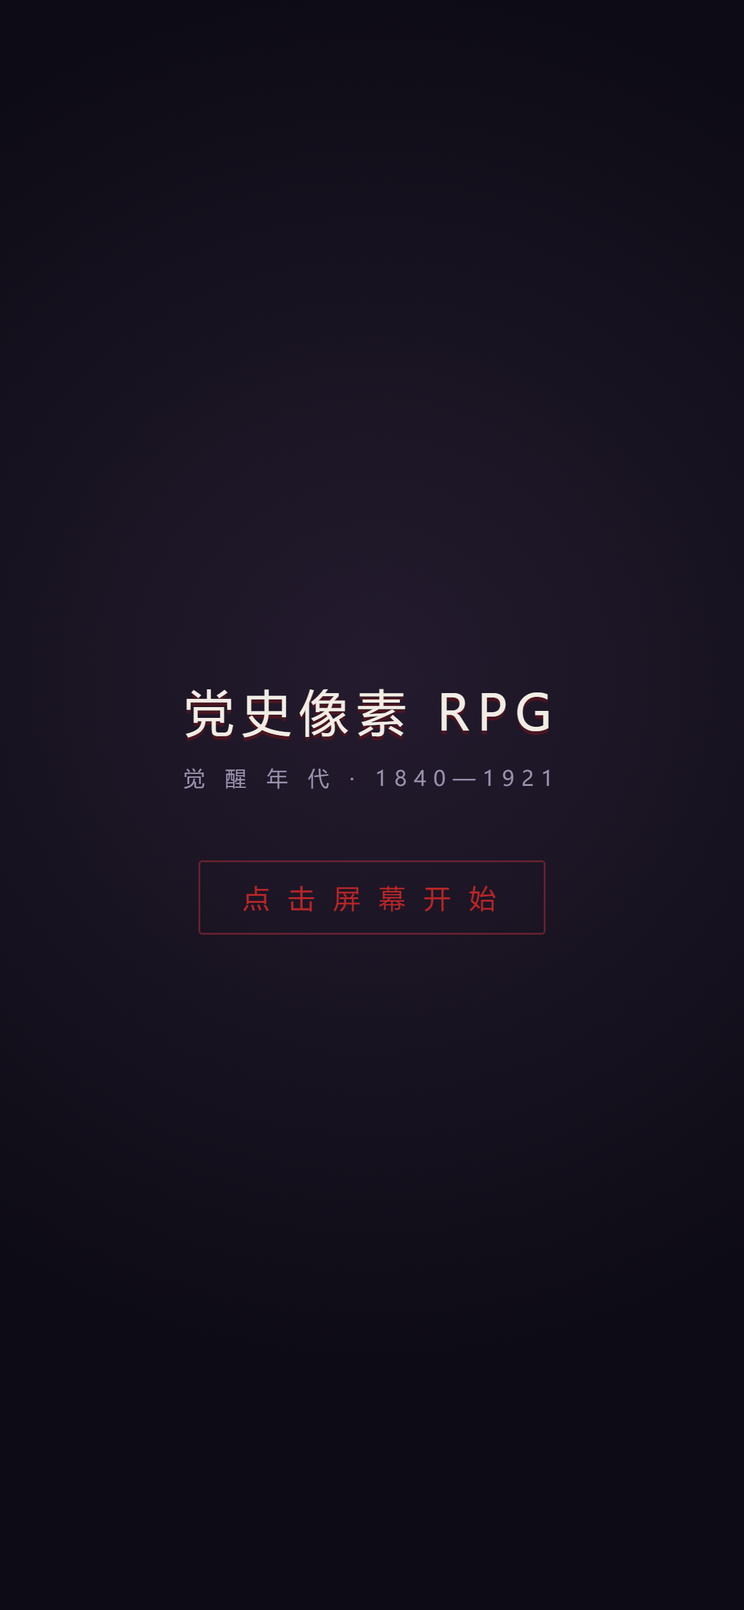
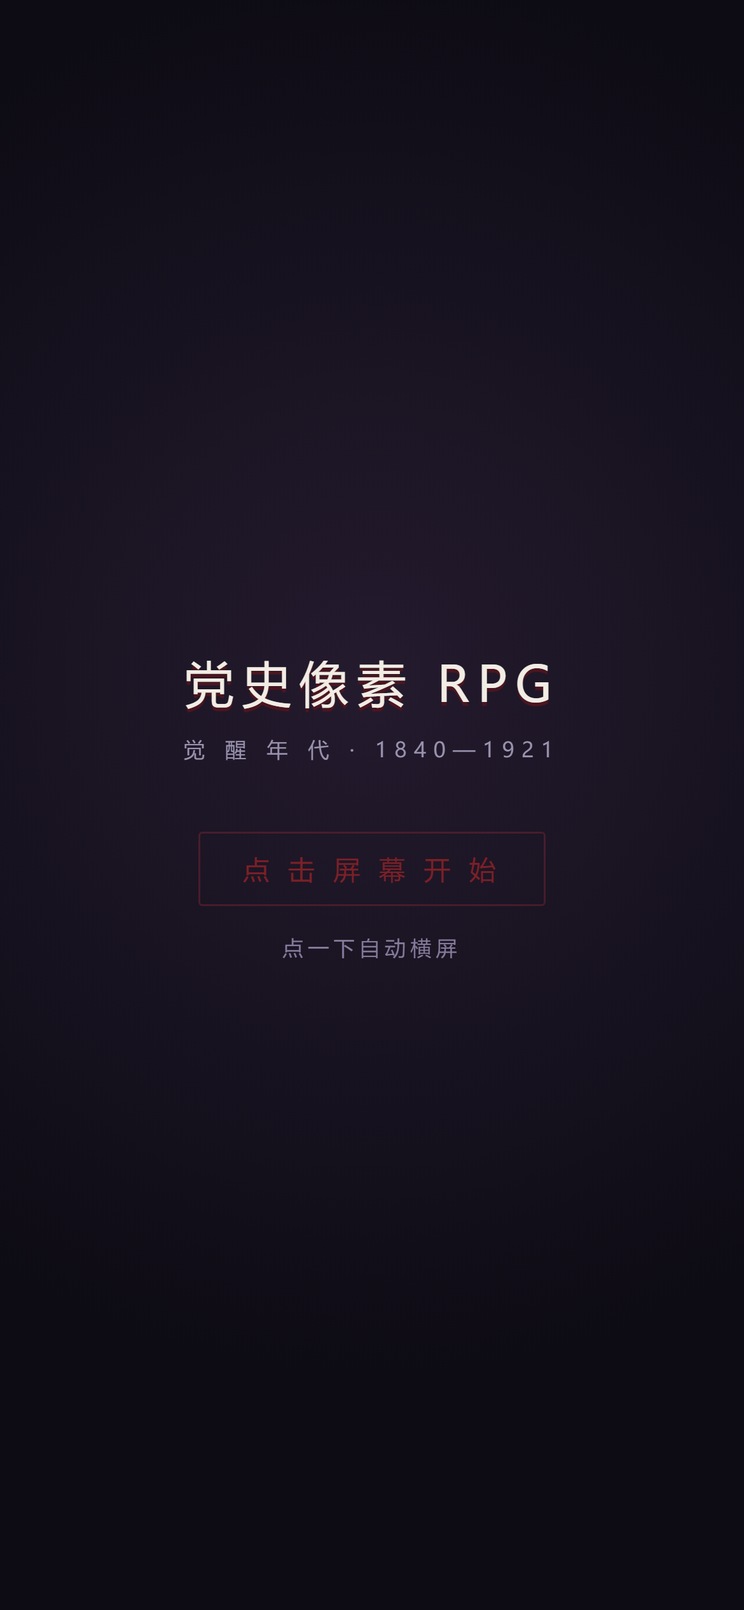
横屏：点一下就横 + 游戏内「横屏」按钮
点「点击开始」这一下就是手势：onTap 里同步置 wantLandscape=true 并立刻 reflow，
不再等异步的全屏/锁屏回调（原来点完会先看到几帧正立的画面再突然翻过去）。
锁得上交给系统转，锁不上走 CSS 旋转兜底；真横过来后自动撤掉 CSS 旋转回到原生渲染，
转屏过渡期先保持旋转，避免画面转一半又弹回来。

新增 #rotate-btn：竖屏时浮在右上角，点一下再强制横一次。这一下是新手势，
所以能把 requestFullscreen 和 screen.orientation.lock('landscape') 重新申请一遍
（纯 CSS 旋转不需要手势，但锁屏需要；锁屏转出的原生横屏更清晰、无触点偏差）。
已转过时文案变「横屏（已横屏）」；?norot=1 模式不显示按钮。

坑（已写进 src/README.md）：html.rot 下不能用 getBoundingClientRect 推像素——
CSS 变换只在绘制阶段生效，矩形返回的仍是未变换的布局盒子，按钮会飞到屏幕外。
改为套一个与 #game-root 同尺寸同变换的盒子、按钮用 right/top 贴角；
判位置在合成屏幕上看 elementFromPoint 命中 rb-txt。

顺带修 gate-portrait.mjs 的时序：原来 gate 一出现就点，那时主模块还没接管，
那一下只置 __tapGatePending（引导层自己的先手逻辑），点了也不进游戏。现在先等 __dshGate。

验证：tsc=0；vitest 13 文件 / 239 测试全过（含 docs.test.ts）；
gate-portrait 三模式 auto / norot=1 / rot=1 均 ok=true；mobile-probe rotated=true、
afterButtonTap.scenes=["Hub"]、errors=[]；cdp-e2e finalErrors=[]；截图逐张看过。

diff --git a/game/src/systems/OrientationGate.ts b/game/src/systems/OrientationGate.ts
@@ -1,16 +1,16 @@
 /**
- * 「点击开始」入口 —— 复刻老掌机/老手游的进游戏手势，同时用它触发自动横屏。
+ * 「点击开始」入口 —— 复刻老掌机/老手游的进游戏手势，同时用它触发横屏。
  *
  * 为什么必须在点击里做：全屏与屏幕方向锁都要求用户手势，页面加载时自动调用一律被拒。
  *
- * 流程：点击 → 尽量全屏 → 尽量 lock('landscape') → 等一小会儿 → 若仍是竖屏，
- * 就改用 CSS 旋转容器兜底（iOS Safari 完全没有方向锁，只能这样），
+ * 流程：点一下屏幕 → 立刻要求横屏（wantLandscape）→ 尽量全屏 → 尽量 lock('landscape')
+ * → 若仍是竖屏，就改用 CSS 旋转容器兜底（iOS Safari 完全没有方向锁，只能这样），
  * 并把 Phaser 的触点换算改成旋转后的版本，否则点哪都偏 90°。
  */
 
 import Phaser from 'phaser';
 import { VIEW_H, VIEW_W } from '../core/constants';
-import { isPortrait, planOrientation, toGameSpace, unrotateToLocal } from '../core/orientation';
+import { isPortrait, toGameSpace, unrotateToLocal } from '../core/orientation';
 
 export interface GateState {
   tapped: boolean;
@@ -18,6 +18,8 @@ export interface GateState {
   locked: boolean;
   /** 是否正在用 CSS 旋转兜底 */
   rotated: boolean;
+  /** 是否还想让画面横着（点开始前竖屏就点一下，点了就要；真横过来或自检不过才放掉） */
+  wantLandscape: boolean;
   /** 调试/端到端用：把屏幕坐标换算成游戏内坐标（旋转兜底时才有意义） */
   map?: (cx: number, cy: number) => { x: number; y: number };
   /** 地址参数快照（E2E 要按模式分支，不能在脚本里猜） */
@@ -183,14 +185,15 @@ function centerCanvas(game: Phaser.Game): void {
 
 export function installStartGate(game: Phaser.Game): GateState {
   const params = new URLSearchParams(window.location.search);
-  // rot 模式三态：默认 auto = 点开始就自动横屏。
-  //   auto  —— 地址里两个参数都没写（线上部署就是这个状态）：先试全屏 + lock('landscape')，
-  //            锁不上就**自动用 CSS 把画面转 90° 铺满屏幕**——用户不用自己横手机；
-  //            一旦触点换算自检对不上，退回提示模式（宁可不转，也不能留一个点不动的画面）。
-  //   force —— `?rot=1`：强制走旋转兜底（调试旧的坐标反算链路）。
-  //   hint  —— `?norot=1`：永不自动转，竖屏只弹「请把手机横过来」。
-  // 之前默认是 hint（用户 2026-10-30 否掉了自动转屏）；本轮用户要求「游戏要能横屏」，
-  // 默认改回 auto：锁得上交给系统转，锁不上（iOS Safari / 微信内核）由 CSS 转过来。
+  // 横屏行为：**点一下屏幕就横**。
+  //   点「点击开始」之前：竖屏不转，引导层正立着，只写一句「点一下自动横屏」。
+  //   点下去之后（onTap，同步、不等异步）：wantLandscape = true，
+  //     真横屏 → 什么都不做；
+  //     锁得动 → 全屏 + lock('landscape')，交给系统转（transition 期间照旧保持 CSS 旋转，
+  //               避免「转了一半又被撤掉」的抖动，等视口真的横向了再放掉，见 reflow）；
+  //     锁不动（iOS Safari / 微信内核）或锁完还是竖的 → CSS 把容器转 90° 铺满。
+  //   用户把手机横过来 / 自检不过 → wantLandscape = false，画面回到原生横屏。
+  // 开关：`?rot=1` 强制 CSS 旋转（调试旧链路）；`?norot=1` 完全不转，只弹「请把手机横过来」。
   const rotMode: 'auto' | 'force' | 'hint' =
     params.get('rot') === '1' ? 'force' : params.get('norot') === '1' ? 'hint' : 'auto';
   // 自检只许做一次：兜底被关掉之后画布恢复普通布局，再拿它跑一次几何检查必然误判。
@@ -200,12 +203,13 @@ export function installStartGate(game: Phaser.Game): GateState {
     fullscreen: false,
     locked: false,
     rotated: false,
+    wantLandscape: false,
     url: { rot: params.get('rot') === '1', hint: params.get('norot') === '1' },
   };
   /** auto 模式下锁屏失败后是否允许 CSS 兜底；自检不过就永久关掉 */
   let rotationBlocked = rotMode === 'hint';
 
-  /** gate 还盖在屏幕上：此时旋转只会把「点击开始」拧起来，等点完再转 */
+  /** gate 还盖在屏幕上：点之前不转，引导层要保持正立 */
   const gateCovering = (): boolean => {
     const g = document.getElementById('tap-gate');
     return !!g && !g.classList.contains('hidden');
@@ -218,6 +222,16 @@ export function installStartGate(game: Phaser.Game): GateState {
     hint.classList.toggle('show', isPortrait(viewport()) && !state.rotated);
   };
 
+  /** 游戏内「横屏」小按钮：竖屏可见，点一下再强制横一次（旋转被撤销后的补救入口） */
+  const updateRotateButton = (): void => {
+    const btn = document.getElementById('rotate-btn');
+    if (!btn) return;
+    // 真横屏没必要显示；hint 模式也不显示（那种模式用户自己横过来）
+    const show = rotMode !== 'hint' && isPortrait(viewport());
+    btn.classList.toggle('show', show);
+    btn.classList.toggle('on', state.rotated);
+  };
+
   /** 触点换算自检：画布外接矩形的中心必须映回 (240,135)。对不上就说明几何与假设不符。 */
   const mappingSane = (): boolean => {
     const map = state.map;
@@ -227,23 +241,22 @@ export function installStartGate(game: Phaser.Game): GateState {
     return Math.abs(c.x - VIEW_W / 2) < 14 && Math.abs(c.y - VIEW_H / 2) < 14;
   };
 
+  /**
+   * 重新算一遍横屏策略。三句话：
+   *   1. 点之前不转（引导层要正立），点过之后（wantLandscape）才该横；
+   *   2. 已经横了（视口本身是横的，或系统锁屏把视口转过来了）就放掉 CSS 旋转——原生横屏最省事；
+   *   3. 还竖着就转：锁不上屏的直接 CSS 转，锁得上的先等系统转，但**先转着别撤**，
+   *      否则锁屏过渡的那几十毫秒里会看到画面转一半又弹回来。
+   * 唯一让步是触点自检不过（rotationBlocked）：宁可退回「请横屏」提示，也不能留一个转了却点不动的画面。
+   */
   const reflow = (): void => {
-    // force 模式下无视自检结果；auto 模式下 rotationBlocked 只可能由自检置真。
-    // gate 还盖着屏幕时不转：旋转兜底是给「进游戏之后」用的，点开始之前先把
-    // 「点击开始」拧起来反而怪（旧行为是加载即旋转，探针就是这么抓到 rotClass=true）。
-    // 但一旦用户点过（state.tapped），就不再撤销旋转——锁屏成功、系统把视口转成
-    // 横屏的那几十毫秒里，resize 会读到瞬时竖屏几何，撤销再恢复会让画面抖一下。
-    // 例外：自检不过（rotationBlocked）时必须撤销——留一个「转了但点不动」的画面，
-    // 比退回提示模式更糟（宁可不转，也不能骗人以为能玩）。
-    let canRotate = rotMode === 'force' || state.tapped || !gateCovering();
-    if (rotationBlocked && state.rotated) canRotate = true;
-    const plan =
-      rotMode === 'force'
-        ? 'rotate'
-        : rotationBlocked || !canRotate
-          ? 'landscape'
-          : planOrientation(viewport(), state.locked);
-    const rotated = plan === 'rotate';
+    const vp = viewport();
+    const portrait = isPortrait(vp);
+    if (rotMode === 'auto' && state.wantLandscape && !portrait) state.wantLandscape = false;
+
+    const canRotate = rotMode === 'force' || ((state.tapped || !gateCovering()) && !rotationBlocked);
+    const rotated = canRotate && (rotMode === 'force' || (state.wantLandscape && portrait));
+
     if (rotated && !state.rotated) sanityChecked = false; // 重新转起来 = 几何变了，允许再自检一次
     state.rotated = rotated;
     applyRotatedLayout(rotated);
@@ -258,6 +271,7 @@ export function installStartGate(game: Phaser.Game): GateState {
       );
     };
     updateHint();
+    updateRotateButton();
     // 容器尺寸变了要让 Phaser 重新量一次父容器；旋转时还要自己居中（Phaser 的量法在旋转下会算反）
     window.setTimeout(() => {
       game.scale.refresh();
@@ -275,6 +289,7 @@ export function installStartGate(game: Phaser.Game): GateState {
           sanityChecked = true;
           if (!mappingSane()) {
             rotationBlocked = true;
+            state.wantLandscape = false;
             reflow();
           }
         }
@@ -302,7 +317,8 @@ export function installStartGate(game: Phaser.Game): GateState {
       } catch {
         state.locked = false;
       }
-      // 锁屏成功后系统要几十到几百毫秒才把视口转过来
+      // 锁屏成功后系统要几十到几百毫秒才把视口转过来。这段时间里 CSS 旋转照旧保持着
+      // （reflow 会在视口真的变横时自己撤掉），所以这里只等一下，不主动撤销任何东西。
       await new Promise((r) => window.setTimeout(r, state.locked ? 500 : 0));
     }
     reflow();
@@ -312,16 +328,39 @@ export function installStartGate(game: Phaser.Game): GateState {
   const onTap = (): void => {
     if (state.tapped) return;
     state.tapped = true;
+    // 「点一下屏幕就横」：这一下点下去就立刻要求横屏，并把旋转同步做完——
+    // begin() 里的全屏/锁屏是异步的，等它回来才转的话，竖屏下会先看到几帧正立的画面再突然翻过去。
+    state.wantLandscape = true;
     (window as unknown as { __tapGatePending?: boolean }).__tapGatePending = false;
     gate?.classList.add('hidden');
     document.documentElement.classList.add('started');
-    // 引导层一消失就该决定要不要旋转画面（begin() 里的全屏/锁屏是异步的，
-    // 等它回来才转的话，竖屏下会先看到几帧歪着的画面）
     reflow();
     // 只把 opacity 置 0 的话，某些内置浏览器仍会把点击吃掉；到时彻底移出层叠树
     window.setTimeout(() => {
       if (gate) gate.style.display = 'none';
     }, 340);
+    void begin();
+  };
+
+  /**
+   * 游戏内「横屏」按钮：再强制横一次。
+   * 场景是旋转被撤掉了（自检不过 / 用户中途横竖切换过 / 系统把锁屏放掉了）却还想横着玩：
+   * 这一下是新手势，所以能把全屏和方向锁**重新申请一遍**（这是关键——纯 CSS 旋转不需要手势，
+   * 但锁屏需要，而锁屏转出来的原生横屏比 CSS 转更清晰、也没有触点偏差的风险）。
+   */
+  const onRotateButton = (): void => {
+    if (rotMode === 'hint') return;
+    // 先把旋转同步打开：即使下面的全屏/锁屏全被拒（iOS Safari 支持 requestFullscreen 的
+    // 只有 video，screen.orientation 根本没有 lock），CSS 兜底也立刻把画面转过来。
+    state.wantLandscape = true;
+    if (!state.tapped) {
+      // 已经进游戏但 gate 还在（比如用户直接点了水面）：当成已开始，免得旋转又被 gate 挡回去
+      state.tapped = true;
+      gate?.classList.add('hidden');
+      document.documentElement.classList.add('started');
+    }
+    reflow();
+    // 手势还在：再有本事就把系统锁定也拿回来（成功时视口会自己转，reflow 随后撤掉 CSS 旋转）
     void begin();
   };
 
@@ -344,6 +383,19 @@ export function installStartGate(game: Phaser.Game): GateState {
   } else {
     // 没有 gate 元素（理论上不会）就当已点击，至少保证方向逻辑生效
     onTap();
+  }
+
+  // 游戏内「横屏」按钮：同样三种事件都挂（它不出现在 gate 里，要一直可用，所以不加 once）
+  const rotateBtn = document.getElementById('rotate-btn');
+  if (rotateBtn) {
+    rotateBtn.addEventListener('pointerdown', (e) => {
+      e.preventDefault();
+      onRotateButton();
+    });
+    rotateBtn.addEventListener('click', (e) => {
+      e.preventDefault();
+      onRotateButton();
+    });
   }
 
   window.addEventListener('resize', reflow);

diff --git a/game/index.html b/game/index.html
@@ -134,6 +134,20 @@
         border-radius: 2px;
         animation: pulse 1.6s ease-in-out infinite;
       }
+      /* 「点一下自动横屏」：只在竖屏出现（横屏本来就横，写了反而多余）。
+         竖屏时这段话在 gate 正下方，正立着读——点下去画面才转。 */
+      #tap-gate .tg-tip {
+        display: none;
+        margin-top: 4px;
+        font-size: 11px;
+        letter-spacing: 0.22em;
+        color: #857c9c;
+      }
+      @media (orientation: portrait) {
+        #tap-gate .tg-tip {
+          display: block;
+        }
+      }
       @keyframes pulse {
         0%,
         100% {
@@ -159,6 +173,95 @@
       }
       html.rot #rotate-hint {
         display: none;
+      }
+      /* 游戏内「横屏」按钮：竖屏时浮在右上角，点一下再强制横一次。
+         旋转生效时它跟着容器一起转——所以必须放在 #game-root 外面（见 body 里的位置），
+         否则竖屏下会被转到屏幕外或被 CSS 变换反着放。 */
+      #rotate-btn {
+        position: fixed;
+        right: 10px;
+        top: 10px;
+        z-index: 250;
+        display: none;
+        align-items: center;
+        gap: 6px;
+        padding: 8px 12px;
+        font-size: 12px;
+        letter-spacing: 0.12em;
+        color: var(--paper);
+        background: rgba(26, 20, 36, 0.86);
+        border: 1px solid #6b2330;
+        border-radius: 3px;
+        cursor: pointer;
+        -webkit-tap-highlight-color: transparent;
+      }
+      #rotate-btn.show {
+        display: inline-flex;
+      }
+      #rotate-btn:active {
+        background: #6b2330;
+      }
+      #rotate-btn .rb-icon {
+        font-size: 14px;
+        line-height: 1;
+        color: var(--red);
+      }
+      /* 已经转过就把「点我」的语气收一收，避免玩家以为没生效 */
+      #rotate-btn.on .rb-txt::after {
+        content: '（已横屏）';
+        color: #857c9c;
+        letter-spacing: 0;
+        font-size: 10px;
+      }
+      /* 旋转兜底生效时整个屏幕在用户眼里是横的，按钮必须跟着“转到那个坐标系里”，
+         否则它停在竖屏角度、玩家看着是躺着的。
+
+         做法：给按钮套一个与 #game-root 完全相同的盒子（宽=100vh、高=100vw，再转 90°），
+         按钮盒子用 absolute 贴在**这个盒子的右上角**（right/top）——
+         旋转把「容器右上角」映射成屏幕左上角，正好是用户眼里的“竖屏时的右上角”。
+         注意不能用 getBoundingClientRect 推坐标：CSS 变换只在绘制阶段生效，
+         它返回的仍是未变换的布局盒子（踩过一次）。 */
+      html.rot #rotate-btn {
+        position: fixed;
+        left: 0;
+        top: 0;
+        right: auto;
+        width: 100vh;
+        height: 100vw;
+        padding: 0;
+        display: block;
+        background: transparent;
+        border: 0;
+        border-radius: 0;
+        transform: translateX(100vw) rotate(90deg);
+        transform-origin: top left;
+        pointer-events: none;
+      }
+      html.rot #rotate-btn > * {
+        pointer-events: auto;
+      }
+      /* 真正的按钮盒子：贴在这个「转好的容器」的右上角。
+         旋转把 (u,v) 映到屏幕 (100vw - v, u)，所以容器右上角 (宽,0) 落在屏幕 (100vw, 宽)
+         ——也就是用户把手机顺时针转 90° 之后看到的**右上角**。 */
+      html.rot #rotate-btn .rb-inner {
+        position: absolute;
+        right: 10px;
+        top: 10px;
+        display: inline-flex;
+        align-items: center;
+        gap: 6px;
+        padding: 8px 12px;
+        font-size: 12px;
+        letter-spacing: 0.12em;
+        color: var(--paper);
+        background: rgba(26, 20, 36, 0.86);
+        border: 1px solid #6b2330;
+        border-radius: 3px;
+      }
+      /* 旋转后按钮的点击区必须落在容器盒子内，否则 pointer-events 被外层 none 吃掉 */
+      html.rot #rotate-btn .rb-inner,
+      html.rot #rotate-btn .rb-inner * {
+        pointer-events: auto;
       }
       /* 加载占位 */
       #boot-hint {
@@ -186,10 +289,16 @@
 
     <div id="boot-hint">正 在 唤 醒 一 八 四 〇 年</div>
 
+    <!-- 游戏内「横屏」按钮：竖屏才显示（样式与显隐都在 OrientationGate.updateRotateButton） -->
+    <div id="rotate-btn" role="button" tabindex="0" aria-label="强制横屏">
+      <span class="rb-inner"><span class="rb-icon">⟳</span><span class="rb-txt">横屏</span></span>
+    </div>
+
     <div id="tap-gate">
       <div class="tg-title">党史像素 RPG</div>
       <div class="tg-sub">觉 醒 年 代 · 1840—1921</div>
       <div class="tg-go">点 击 屏 幕 开 始</div>
+      <div class="tg-tip">点一下自动横屏</div>
     </div>
 
     <div id="rotate-hint">

diff --git a/game/src/core/orientation.ts b/game/src/core/orientation.ts
@@ -6,12 +6,13 @@
  *   - 真横屏 → 什么都不用做；
  *   - 锁屏成功 → 视口自己会转成横屏，等一下就好；
  *   - 都不行 → 用 CSS 把整个容器旋转 90°，画面自己横过来铺满屏幕；
- *   - 开关关掉了自动转屏（`?norot=1`）→ 只弹「请把手机横过来」的提示。
+ *   - 关掉了自动转屏（`?norot=1`）→ 只弹「请把手机横过来」的提示。
  * 第三种情况下触摸坐标是转着的，必须用 unrotateToLocal 反算，否则点哪都不对。
  *
- * 「CSS 旋转要不要用」这个开关在 systems/OrientationGate.ts：默认 auto——锁不上就自动转；
- * `?norot=1` 关掉（只弹提示）、`?rot=1` 强制开。
- * `planOrientation` 只回答「假如允许 CSS 兜底，该不该兜」。
+ * 「点一下屏幕就横」的具体策略在 systems/OrientationGate.ts：点下去立刻要求横屏，
+ * 锁得动就交给系统转，锁不动就 CSS 转 90° 兜底；`?norot=1` 关掉（只弹提示）、`?rot=1` 强制转。
+ * `planOrientation` 只回答「假如允许 CSS 兜底，该不该兜」——它不涉及点击状态，
+ * 所以 Gate 里直接按「点过且仍竖屏」判断，不再调它；保留导出与单测是为了钉住这条基础规则。
  */
 
 export interface Viewport {

diff --git a/game/src/README.md b/game/src/README.md
@@ -64,7 +64,7 @@ main.ts
 | `gfx/MapRenderer.ts` | 608 | 瓦片绘制：地面层整层烘成一张 canvas 纹理，按瓦片色推断材质（海/沙/石/木）并画浪脊、砂点、砖缝、木纹；`battle_scars` 打开时再叠**战场残破化**（弹坑/血泊/尸骸/碎木）与**破烂炮台**（塌口胸墙 + 两门炸坏的岸炮）；前景层仍用 Graphics 画 + `isSolidAtWorld/Tile` 碰撞查询 `battle_scars` 的贴花走 `paintScarStickers()`：优先用甲方 12 张贴图（`SCAR_TEX`，0-2 弹坑 / 3-5 血泊 / 6-8 尸骸 / 9-11 碎砖，按 6×3 抖动网格铺），贴图缺失时退回 `paintScars()` 的矢量画法。**砖面高光只给约 45% 的格子**：每格都点一条 1px 亮边会连成一张亮网格，整块地像贴了瓷砖（截图评审发现过）。| 材质推断在 `tileStyleOf()`：**蓝得明显**（b−r ≥ 60 且 b−g ≥ 20）才算海、低饱和偏冷算石、暖亮算沙、暖暗算木。第一版写成 `b > r + 20`，把紫灰的炮台地面 `#6B6489` 也判成海，整片场地画上浪花，截图里像站在水上——改阈值时务必连 `#6B6489`/`#4A4468` 一起验。地图设了 `sky_rows` 时前几行**不画地砖**（留透明给远景条），但碰撞照旧。**海面不是碰撞格**，玩家能不能下海由 `LevelScene.isSeaAt`（`Player.setBlocker`）决定——两者别混。残破化痕迹用 `dry(x,y)`（= `!isSeaPixel`）跳过水面，96 个随机点里约 1/3 会落在海上，不跳过就出现「浮在海上的弹坑」。纹理 key **每实例唯一**（`map_ground_<mapId>_<seq>`）：复用固定 key 再 `textures.remove` 会让上一帧还在渲染的 Image 拿到空纹理，Phaser 在 `batchSprite` 里抛 `Cannot read properties of null (reading 'glTexture')` |
 | `gfx/Backdrop.ts` | 382 | 背景与远景条：优先用甲方给的全景图（`BG_TEX.intro` = `art/bg/bg_sea_red.png` 480×270、`BG_TEX.horizon` = `art/bg/bg_strip_night.png` 480×64），**缺图时自动退回程序化绘制**（`backdropTexture()` 起火舰 + 烟柱 + 半沉残骸；`horizonTexture()` 天空 + 海平线 + 舰影 + 硝烟，只用 24 色盘） | `backdropImage` `horizonImage` `HORIZON_H` | 美术图到位后把两个 `*Texture()` 换成 `load.image` 即可，调用点（`LevelScene.showBattleIntro` / `buildWorld`）不用改。远景条按**底边对齐**留白带下沿（`setOrigin(0,1)`），否则最下面几像素的海会被第一行地砖盖住、船像沉进地里。烟要用一叠小团叠出来（`drawSmoke`），画成一个大圆饼会像气球 |
 | `systems/InputSystem.ts` | 417 | 虚拟摇杆 + 攻/闪/查 三键 + 只在战斗幕出现的炮键 + 键盘等价键；写共享单例 `controls`；`setShown()` 整体显隐、`setCannonShown()` 只显隐炮键 | 所有输入回调都要同时检查 enabled 和 hidden 两个开关；新增按键要登记进 `parts` 才能被 `setShown` 隐藏；**摇杆只认「按在摇杆圈里」的那根手指**（`stickPointerId` 只能由 `stickHit.pointerdown` 领取），否则按「查」时手指一抖角色就跟着走；**「本帧按下」标志只能由 `LevelScene.update` 末尾的 `controls.endFrame()` 清**，挪进 `UIScene.update` 会让触屏单点在被读到之前就消失——E2E 的 `stages.act1.touch` 与 `stages.act1.buttons` 分别守这两条 |
-| `systems/OrientationGate.ts` | 158 | 「点击开始」入口 + 自动横屏：手势里申请全屏与 `lock('landscape')`；默认（auto）锁不上就给容器加 `.rot` 用 CSS 转 90° 并改写 Phaser 的坐标反算，`?norot=1` 只弹「请横屏」提示、`?rot=1` 强制旋转。gate 还盖着时不转，点过之后（`state.tapped`）不再撤销，避免锁屏过渡期抖动；**唯一例外是自检不过（`rotationBlocked`）——那时必须撤销旋转退回提示，宁可提示也不能留一个「转了但点不动」的画面** | 改旋转公式只改 `core/orientation.ts`；`index.html` 里的 `#tap-gate` 与 `html.rot` 样式必须同步；桌面横屏不会触发全屏；E2E 按 `__dshGate.url.{rot,hint}` 分支断言 |
+| `systems/OrientationGate.ts` | 354 | 「点击开始」入口 + 横屏：**点一下屏幕就横**——`onTap` 里同步置 `state.wantLandscape=true` 并立刻 `reflow()`（不等异步全屏/锁屏），锁得上交给系统转、锁不上给容器加 `.rot` 用 CSS 转 90° 并改写 Phaser 的坐标反算。点之前（gate 还盖着）不转，引导层保持正立；视口真的横过来后自动撤掉 CSS 旋转回到原生横屏。**游戏内「横屏」按钮 `#rotate-btn`**：竖屏时浮在右上角，`onRotateButton()` 重新置 `wantLandscape` 并再申请一次全屏/锁屏（这是新手势才有的能力）。`?norot=1` 只弹「请横屏」提示、`?rot=1` 强制 CSS 旋转（此模式不显示按钮）。**唯一让步是自检不过（`rotationBlocked`）——那时撤销旋转退回提示，宁可提示也不能留一个「转了但点不动」的画面** | 改旋转公式只改 `core/orientation.ts`；`index.html` 里的 `#tap-gate`、`#rotate-btn` 与 `html.rot` 样式必须同步；桌面横屏不会触发全屏；E2E 按 `__dshGate.url.{rot,hint}` 分支断言。**`html.rot` 下按钮的定位不能靠 `getBoundingClientRect` 推像素**：CSS 变换只在绘制阶段生效，那个矩形返回的仍是未变换的布局盒子（踩过一次，按钮飞到屏幕外）；正确做法是套一个与 `#game-root` 同尺寸同变换的盒子，按钮用 `right/top` 贴角 |
 | `core/defeat.ts` | 90 | 战败演出时间轴：`DEFEAT_BEATS`（freeze/pullback/fleet/boom/text/hold/reveal 各自毫秒数）、`defeatTimeline()`、`beatAt(ms)`、`beatStart(name)`、`DEFEAT_TEXT`（大字文案与副标题）| 纯逻辑，可单测；改节奏只改这张表，演出实现（`DefeatCinematic`）按它排程 |
 | `systems/AudioKit.ts` | 130 | 无素材音效：WebAudio 现场合成炮响 / 爆炸 / 闷响 / 心跳；`AudioKit.play(name)` 惰性创建 AudioContext，`mute()` / `resume()` | 手机浏览器要求先有用户手势（点引导层即可）；没有 mp3 也出声是刻意的，换真素材改 `SYNTH` 表 |
 | `systems/DefeatCinematic.ts` | 260 | 「城破」演出：冻结世界 → 镜头拉远 → 舰队剪影推进 → 炮火余响 → 大字放大 + 画面抖动 → 停留 → 移交；`play(opts)`，结束时自己还原镜头与 HUD | 演出期间必须 `setHudVisible(false)` + `setControlsVisible(false)`；重进关卡要 `destroyAll()`，否则镜头停在拉远状态；E2E 用 `lvl.breachCinema` 判断是否在演 |

diff --git a/game/README.md b/game/README.md
@@ -49,13 +49,15 @@ $pnpm = "$env:USERPROFILE\.dsh\dsh-runtimes\dsh-primary-runtime\dependencies\pnp
 
 标题页有「导出存档 / 导入存档」：导出的是一串可粘贴的文本（Base64），换域名、换设备、清缓存之后都能搬回去。手机上没有控制台，这是唯一的救存档手段——**换隧道地址就是换 localStorage，进度会「消失」**。
 
-手机端进入方式（老掌机那一套）：打开页面先看到一整屏的「点击屏幕开始」，点一下才会进游戏——这一下是必须的，因为 `requestFullscreen()` 与 `screen.orientation.lock('landscape')` 都要求用户手势，自动全屏会被浏览器拒绝。点完之后：
+手机端进入方式（老掌机那一套）：打开页面先看到一整屏的「点击屏幕开始」，**点一下就横屏**。点之前引导层保持正立（竖着能读），点下去之后：
 
-1. 能锁横屏就锁横屏（全屏 + `orientation.lock`）；
+1. 这一下点本身就是手势，立刻申请全屏 + `screen.orientation.lock('landscape')`；能锁上就交给系统转；
 2. 锁不上（iOS Safari 不支持 `lock`）就整屏 CSS 旋转 90°，靠 `#game-root` 的宽高互换铺满，同时把 Phaser 的父容器尺寸、`autoCenter` 与指针变换一起改掉，保证**触摸点仍然落在它看起来落在的位置**；
 3. 用户真的把手机横过来之后，`orientationchange` 会把 CSS 旋转撤掉，恢复原生横屏渲染。
 
-默认就是上面这套「自动横屏」。不想让它替用户转屏的话，地址后加 `?norot=1`：竖屏只弹「请把手机横过来」的整屏提示，画面绝不自己拧起来；`?rot=1` 则强制走 CSS 旋转（调试坐标反算用）。
+竖屏时右上角还有一个「⟳ 横屏」小按钮（`#rotate-btn`）：旋转被撤掉后还想横着玩，点它就能再强制横一次（它同样能重新申请全屏与锁屏，因为这也是一次新手势）。按钮会跟着画面一起旋转，所以转好之后它就贴在用户眼里的右上角。
+
+不想要自动转屏的话，地址后加 `?norot=1`：竖屏只弹「请把手机横过来」的整屏提示，画面绝不自己拧起来，也不显示那个按钮；`?rot=1` 则强制走 CSS 旋转（调试坐标反算用）。
 
 细节与坐标反算的推导在 [src/README.md](src/README.md) 的 `core/orientation.ts` / `systems/OrientationGate.ts` 两行；端到端判据在 [tools/README.md](tools/README.md) 末尾。
 
